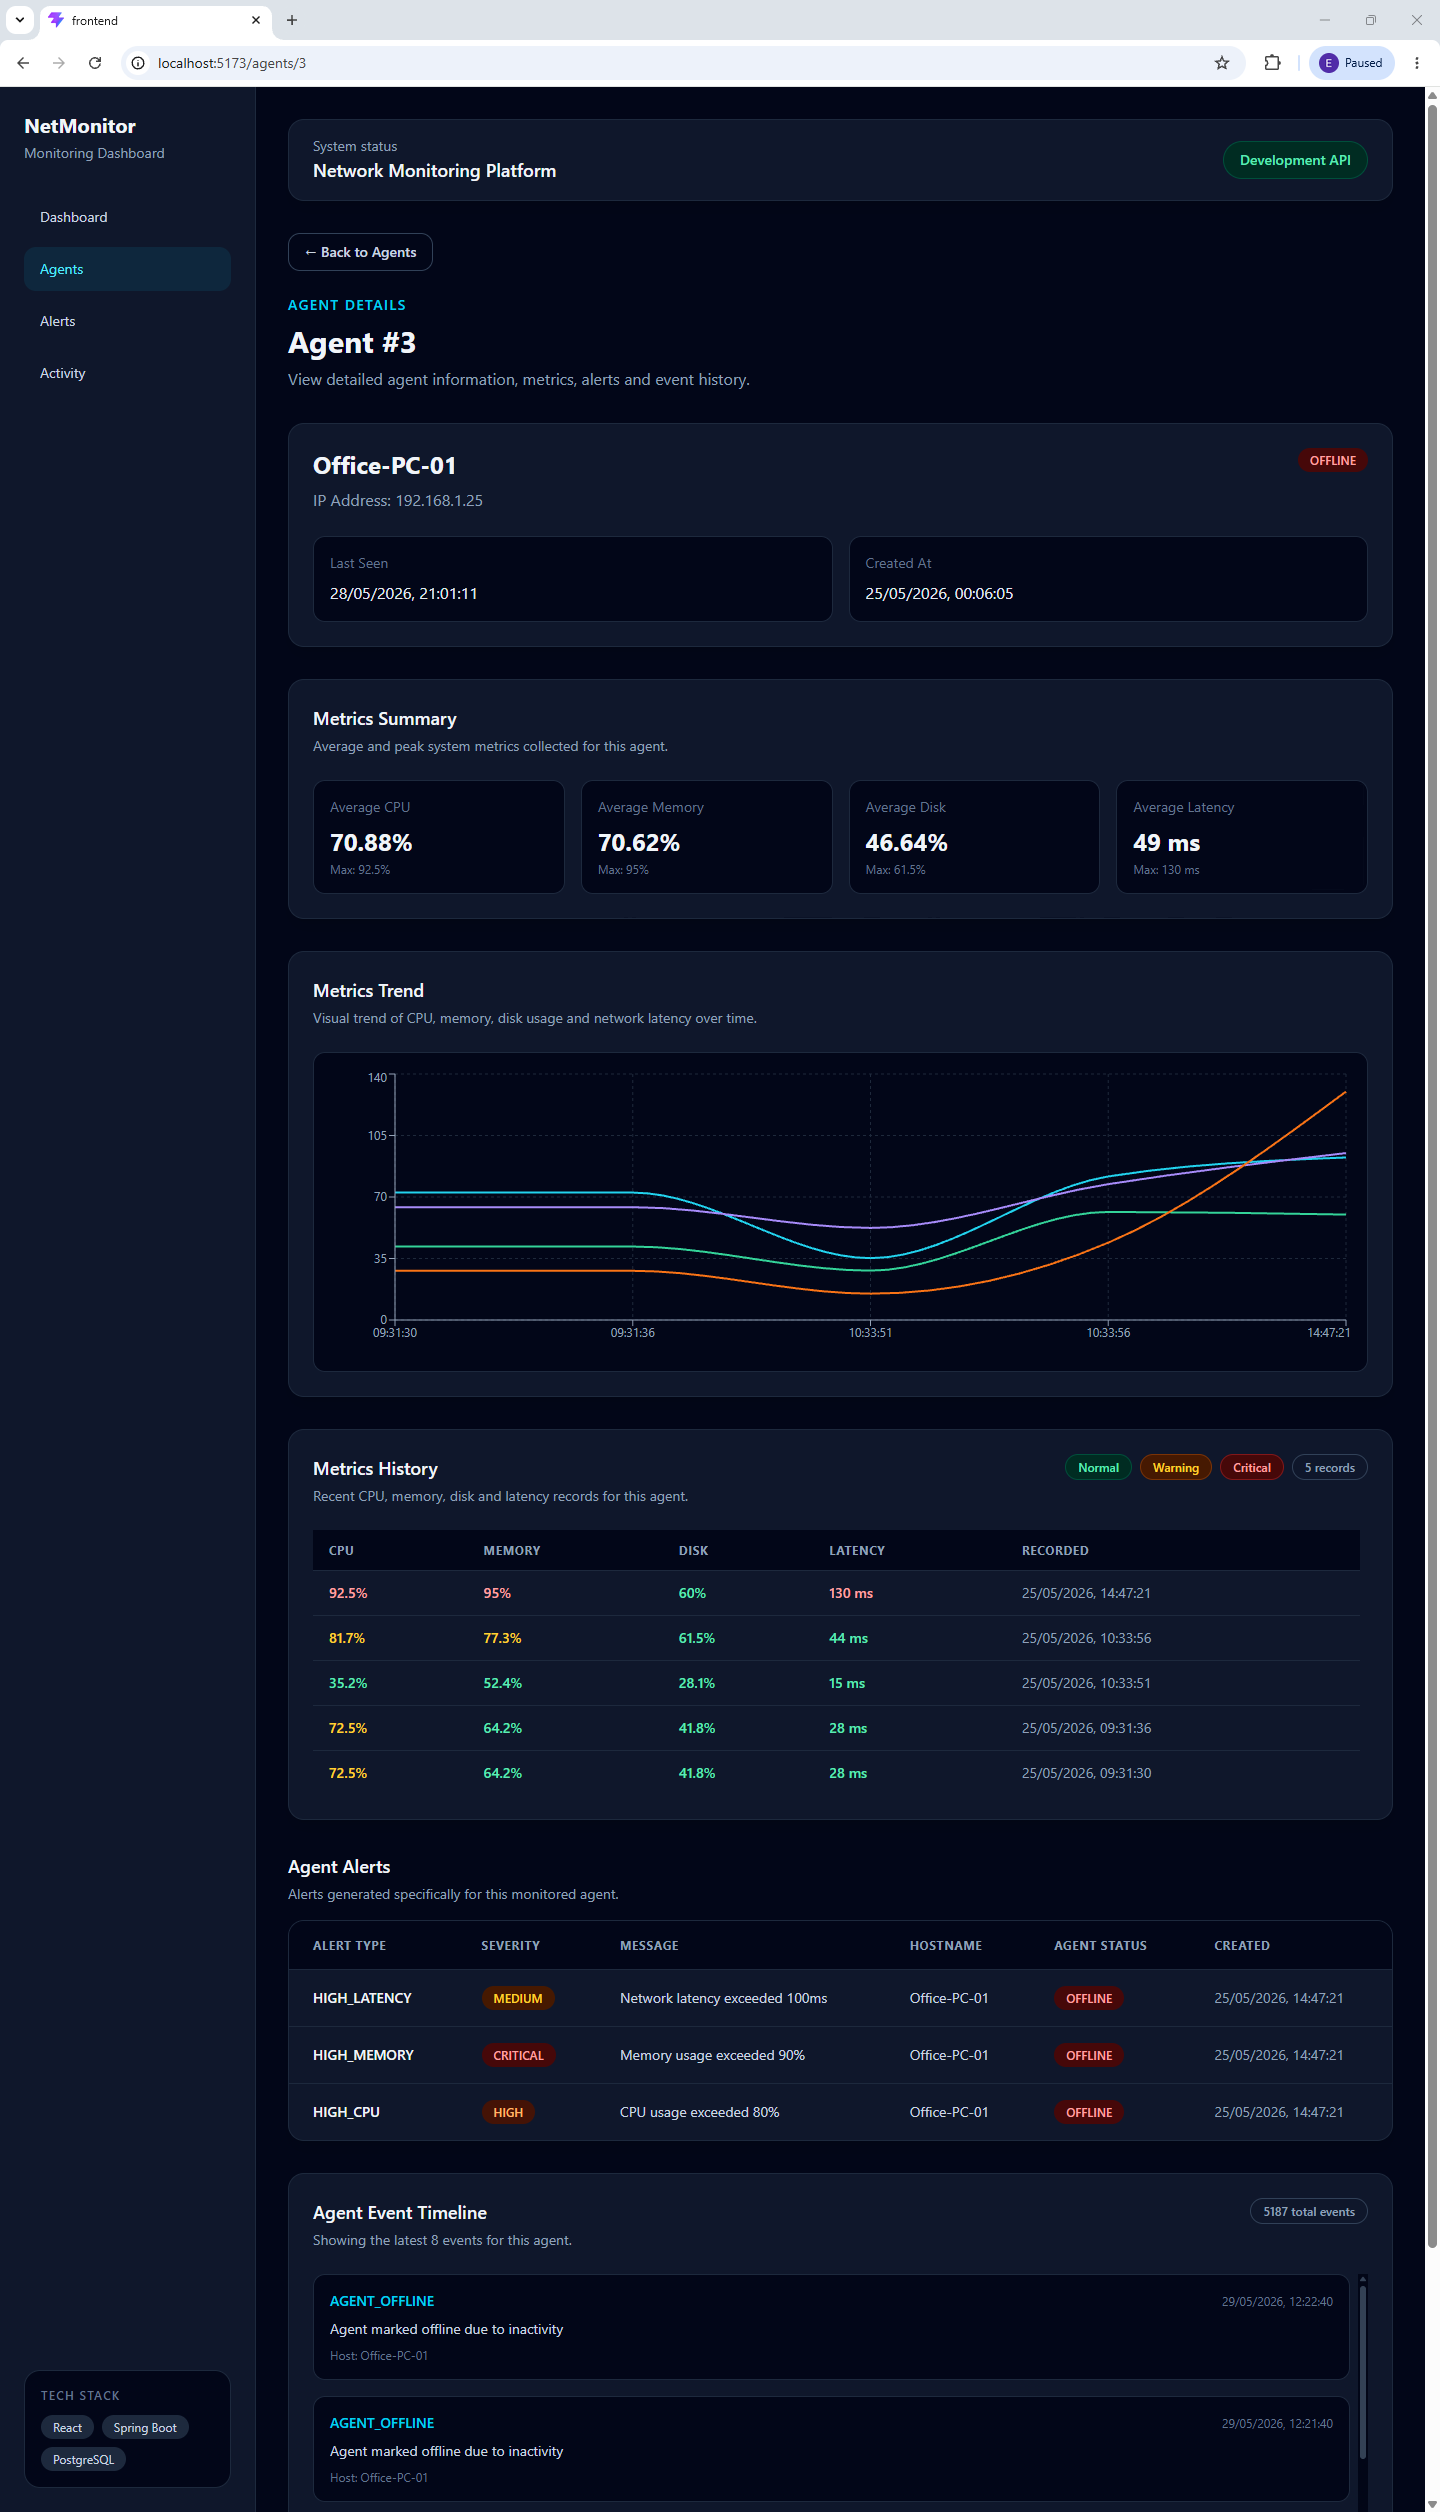
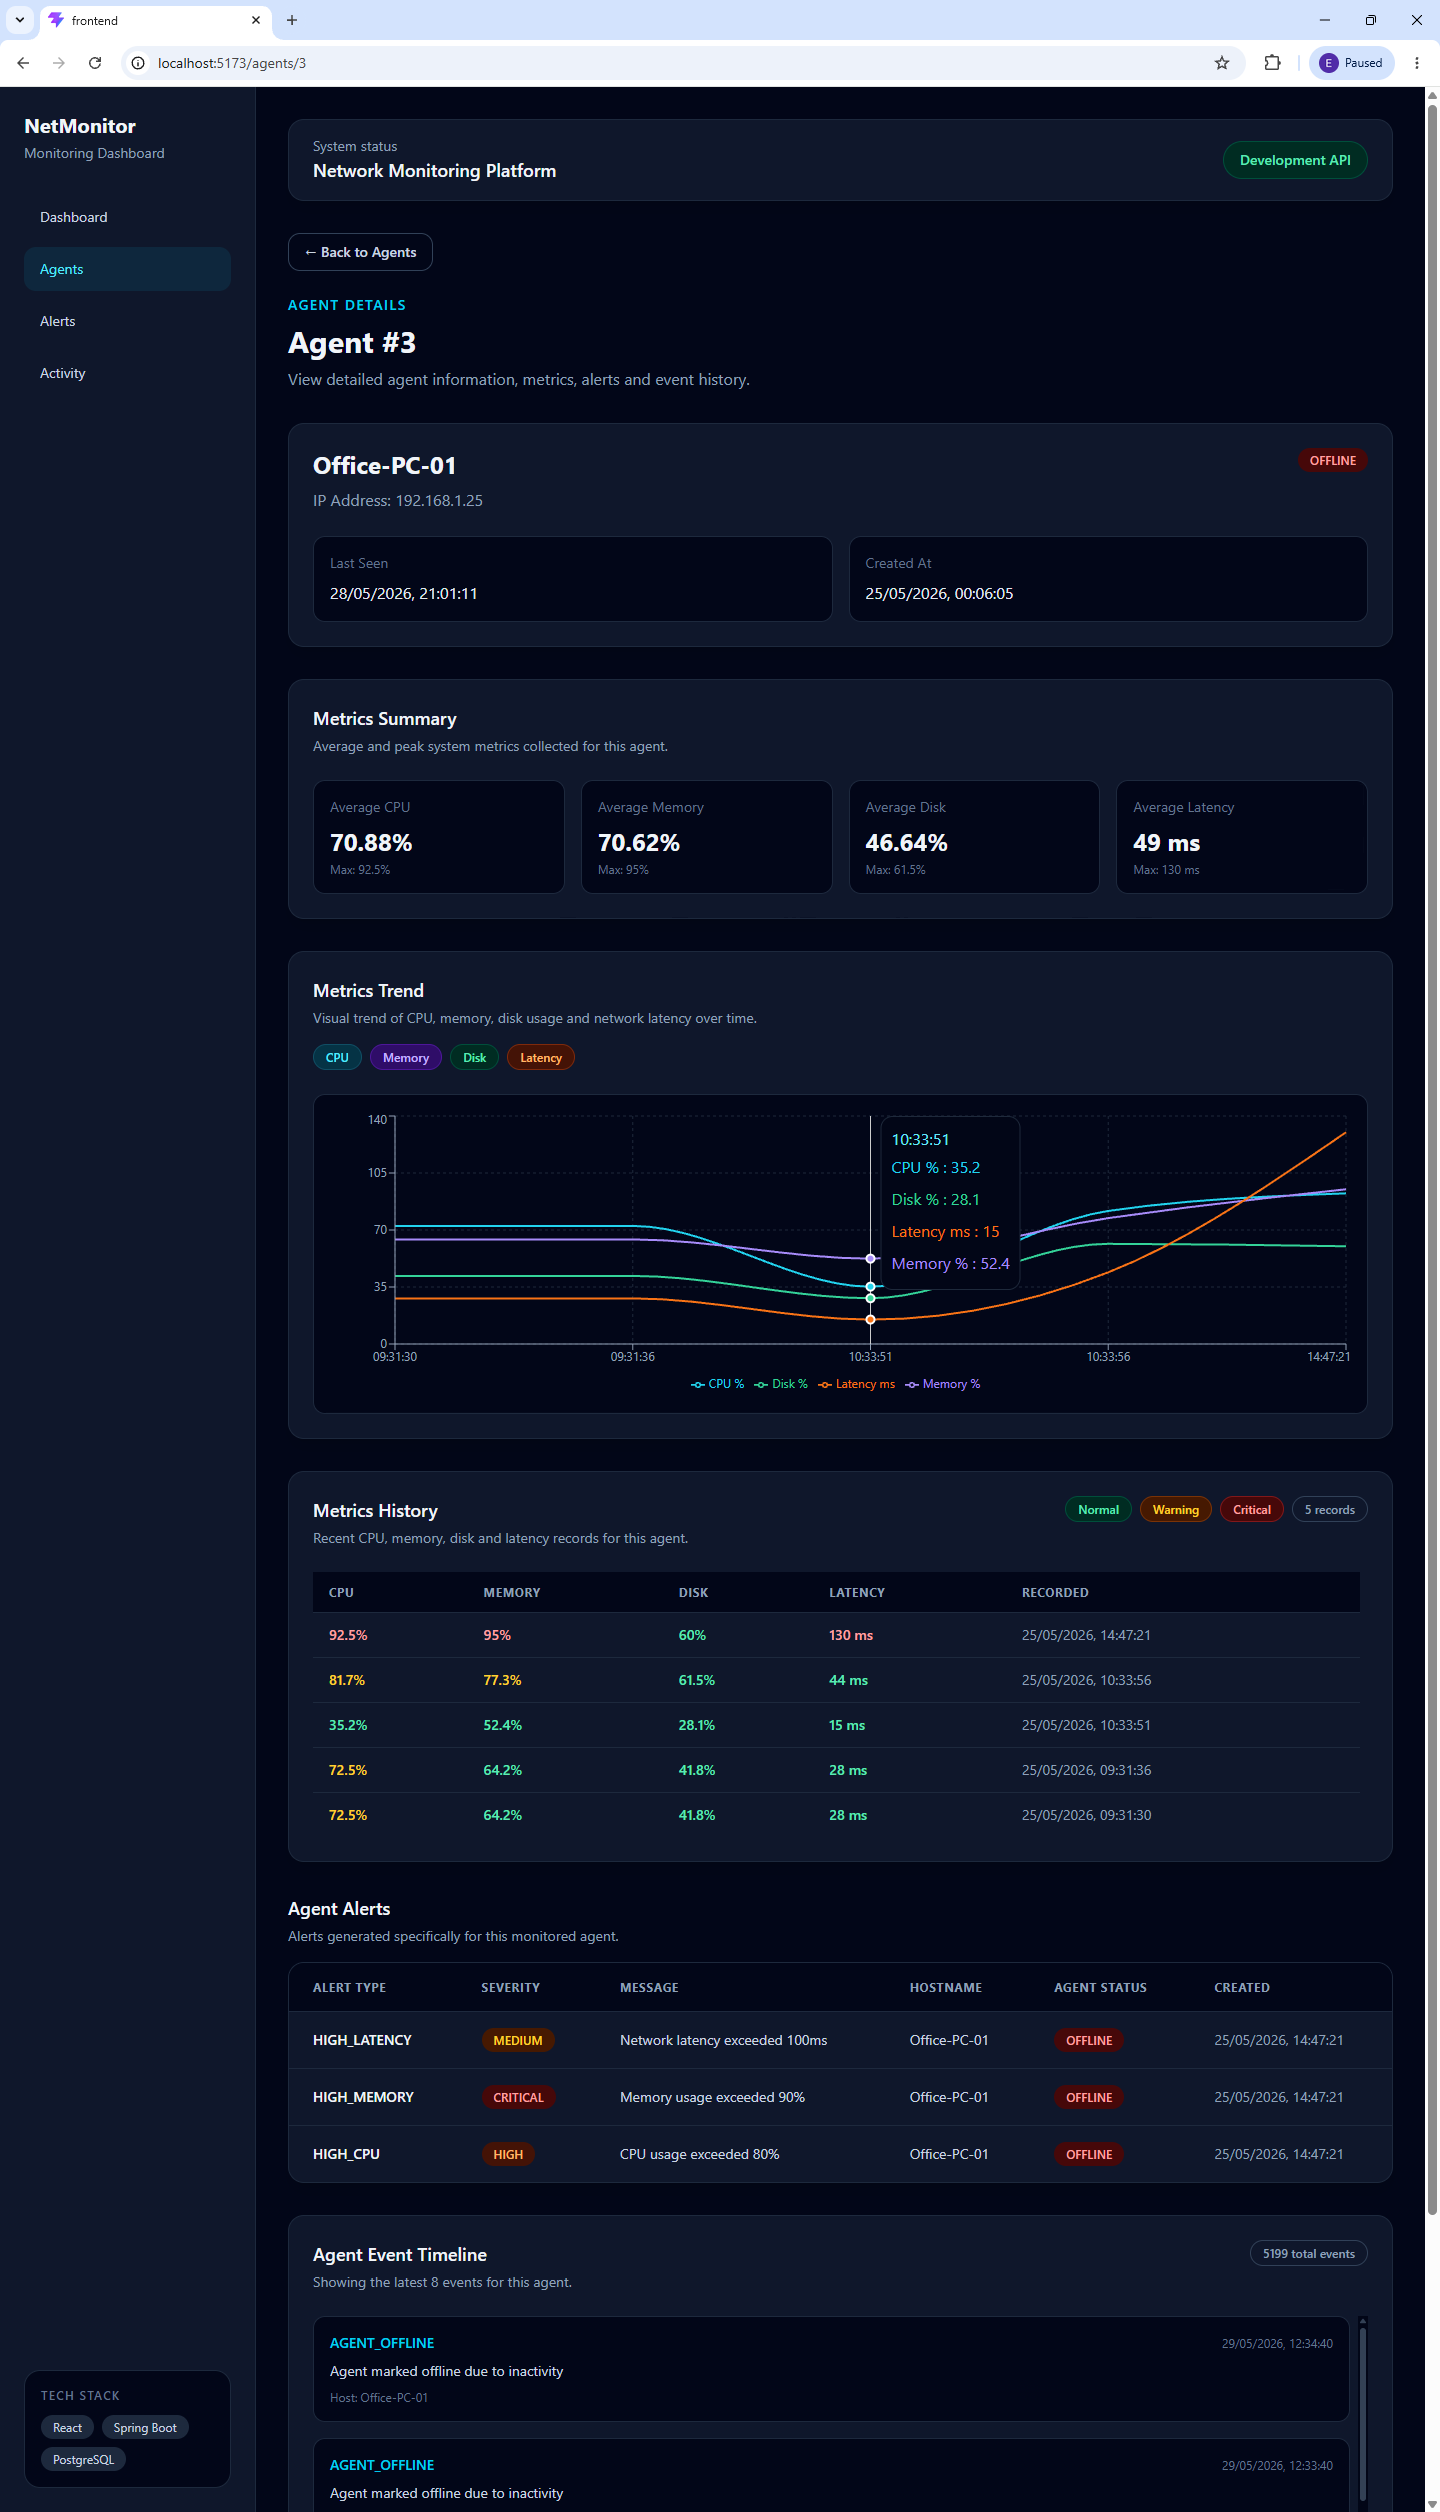
docs: update frontend chart documentation
- added Recharts to frontend technology stack
- documented metrics trend chart feature
- updated frontend feature list with visualisation support
- improved README accuracy after chart implementation

diff --git a/README.md b/README.md
@@ -142,13 +142,15 @@ A React frontend dashboard has been added to provide a portfolio-ready interface
 - Tailwind CSS
 - Axios
 - React Router
+- Recharts
 
 ### Frontend Features
 
 - Dashboard overview with agent and alert summary cards
 - Latest alerts and recent activity preview panels
 - Agents page with hostname search and status filtering
-- Agent details page with profile data, metrics summary, metrics history, alerts and event timeline
+- Agent details page with profile data, metrics summary, metrics history, alerts and event timeline 
+- Metrics trend chart for CPU, memory, disk and latency visualisation
 - Alerts page with severity filtering and summary cards
 - Activity timeline page for recent monitoring events
 - Reusable loading and error states